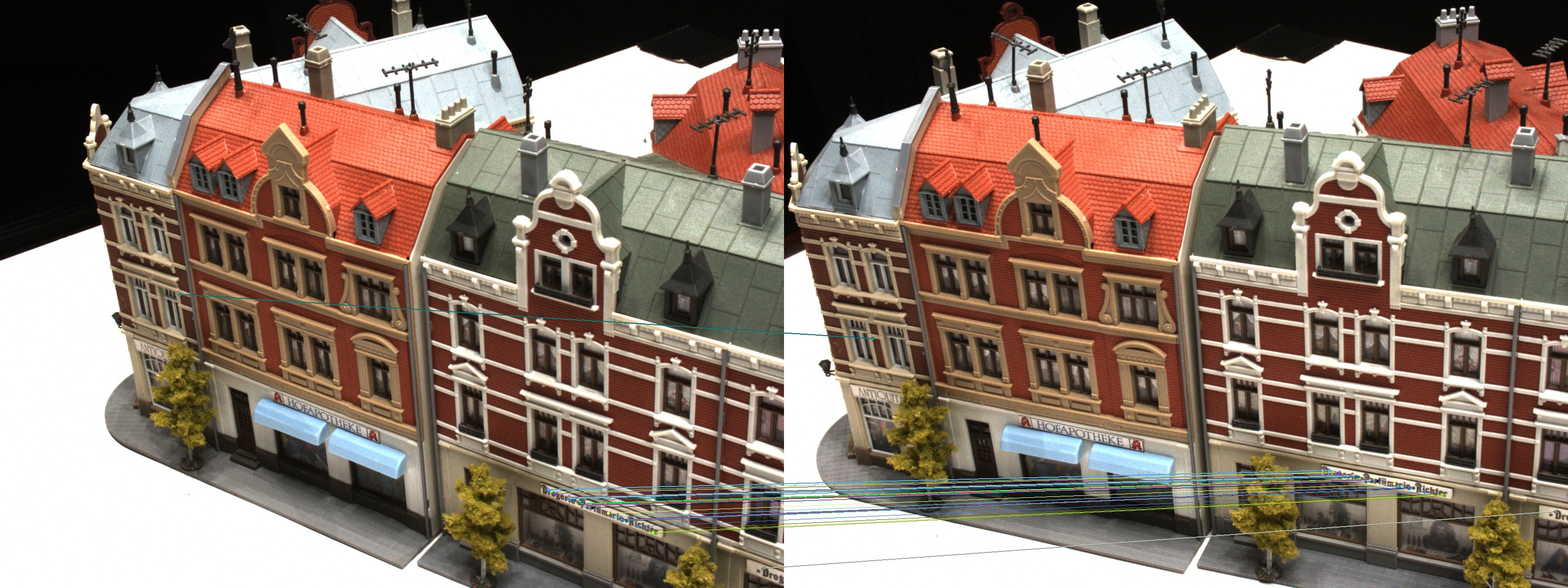
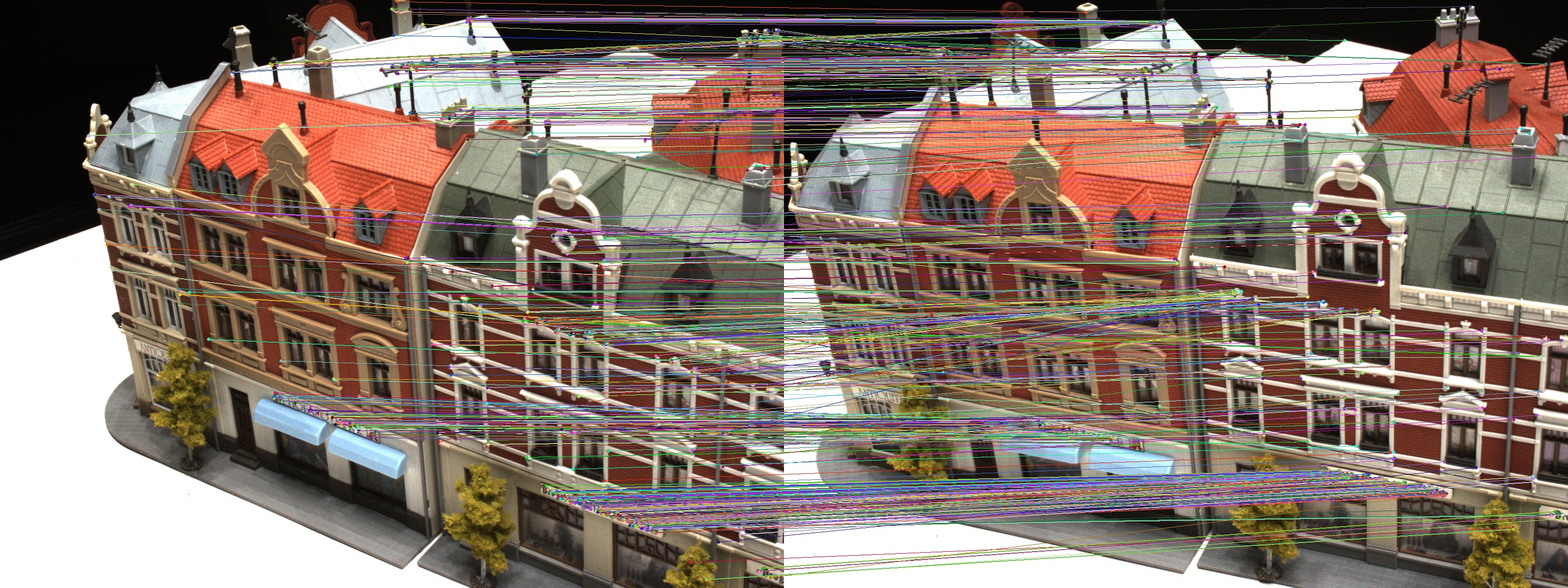
成功画完step1图，把主代码改成main

diff --git a/main.py b/main.py
@@ -1,0 +1,50 @@
+import cv2
+import numpy as np
+
+import harris
+import match 
+import geo_veri
+import draw1
+#print(draw1.__file__)
+
+# 读取每张图
+img2 = cv2.imread("images/00000022.jpg")
+img3 = cv2.imread("images/00000023.jpg")
+img4 = cv2.imread("images/00000024.jpg")
+
+# 寻找每张图的harris角点，并得到描述子
+corners2, desc2 = harris.harris_features(img2)
+corners3, desc3 = harris.harris_features(img3)
+corners4, desc4 = harris.harris_features(img4)
+
+# 特征匹配，找到各自对应的角点
+matches23 = match.bf_match(desc2, desc3)
+matches34 = match.bf_match(desc3, desc4)
+matches24 = match.bf_match(desc2, desc4)
+
+# 几何验证
+inlier_matches23, F23 = geo_veri.ransac_fundamental(corners2, corners3, matches23, thresh=50.0, max_iters=500)
+inlier_matches34, F34 = geo_veri.ransac_fundamental(corners3, corners4, matches34, thresh=50.0, max_iters=500)
+inlier_matches24, F24 = geo_veri.ransac_fundamental(corners2, corners4, matches24, thresh=50.0, max_iters=500)
+
+'''
+# 进行画图：特征点连线
+match_img_23 = draw1.draw_matches(img2, img3, corners2, corners3, inlier_matches23)
+cv2.imwrite("outputs/match_23.jpg", match_img_23)
+
+match_img_34 = draw1.draw_matches(img3, img4, corners3, corners4, inlier_matches34)
+cv2.imwrite("outputs/match_34.jpg", match_img_34)
+
+match_img_24 = draw1.draw_matches(img2, img4, corners2, corners4, inlier_matches24)
+cv2.imwrite("outputs/match_24.jpg", match_img_24)
+
+# 画图：可视化核线
+epi_23 = draw1.draw_epipolar_lines(img2, img3, F23, corners2, corners3, inlier_matches23)
+cv2.imwrite("outputs/epi_23.png", epi_23)
+
+epi_34 = draw1.draw_epipolar_lines(img3, img4, F34, corners3, corners4, inlier_matches34)
+cv2.imwrite("outputs/epi_34.png", epi_34)
+
+epi_24 = draw1.draw_epipolar_lines(img2, img4, F24, corners2, corners4, inlier_matches24)
+cv2.imwrite("outputs/epi_24.png", epi_24)
+'''

diff --git a/draw1.py b/draw1.py
@@ -23,3 +23,57 @@ def draw_matches(img1, img2, corners1, corners2, matches):
         cv2.line(canvas, (int(x1), int(y1)), (int(x2), int(y2)), color, 1)
 
     return canvas   
+
+
+# 可视化核线
+def draw_epipolar_lines(img1, img2, F, pts1, pts2, matches, max_lines=20, color=(0,255,0)):
+    """
+    img1, img2: BGR images
+    F: 3x3 fundamental matrix
+    pts1, pts2: Nx2 float coordinates
+    matches: list of (i,j)
+    max_lines: only draw first N lines
+    """
+    
+    # 拼接图像
+    h1, w1 = img1.shape[:2]
+    h2, w2 = img2.shape[:2]
+    canvas_h = max(h1, h2)
+    canvas = np.zeros((canvas_h, w1 + w2, 3), dtype=np.uint8)
+    canvas[:h1, :w1] = img1
+    canvas[:h2, w1:w1 + w2] = img2
+
+    # 右侧图像的 x 偏移
+    offset = np.array([w1, 0])
+
+    # 画线函数：给定 l=[a b c]，画 ax+by+c=0
+    def draw_line(img, line, color):
+        a, b, c = line
+        x0, y0 = 0, int(-c / b) if b != 0 else 0
+        x1, y1 = img.shape[1], int(-(c + a * img.shape[1]) / b) if b != 0 else 0
+        cv2.line(img, (x0, y0), (x1, y1), color, 1, cv2.LINE_AA)
+
+    # 限制数量
+    total = min(max_lines, len(matches))
+
+    # 双向核线绘制
+    for k in range(total):
+        i, j = matches[k]
+
+        p1 = np.array([pts1[i][0], pts1[i][1], 1.0])
+        p2 = np.array([pts2[j][0], pts2[j][1], 1.0])
+
+        # 图1 ← 图2 的核线： l1 = F^T p2
+        l1 = F.T @ p2
+
+        # 图2 ← 图1 的核线： l2 = F p1
+        l2 = F @ p1
+
+        # 在图1画来自图2的核线
+        draw_line(canvas[:, :w1], l1, (0,255,0))
+
+        # 在图2画来自图1的核线（需要加 offset）
+        line_offset = np.array([l2[0], l2[1], l2[2] - l2[0]*offset[0] - l2[1]*offset[1]])
+        draw_line(canvas[:, w1:], line_offset, (0,255,0))
+
+    return canvas
